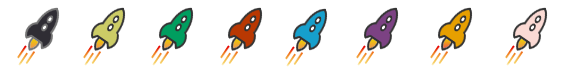
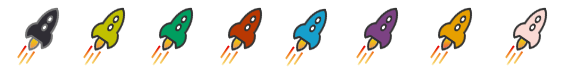
modified:   assets/board_icons.png 	modified:   assets/colony_ship.png 	modified:   src/styles/variables.less

Changed region(s): [[0.1486, 0.1429, 0.2378, 0.6571]]

diff --git a/src/styles/variables.less b/src/styles/variables.less
@@ -10,7 +10,7 @@
 @text_main: rgb(250, 250, 250);
 //players
 @player_red: rgb(185, 56, 2);
-@player_yellow: rgb(204, 204, 102);
+@player_yellow: rgb(192, 192, 0);
 @player_green: rgb(0, 158, 95);
 @player_black: rgb(47, 45, 95);
 @player_blue: rgb(22, 159, 204);
